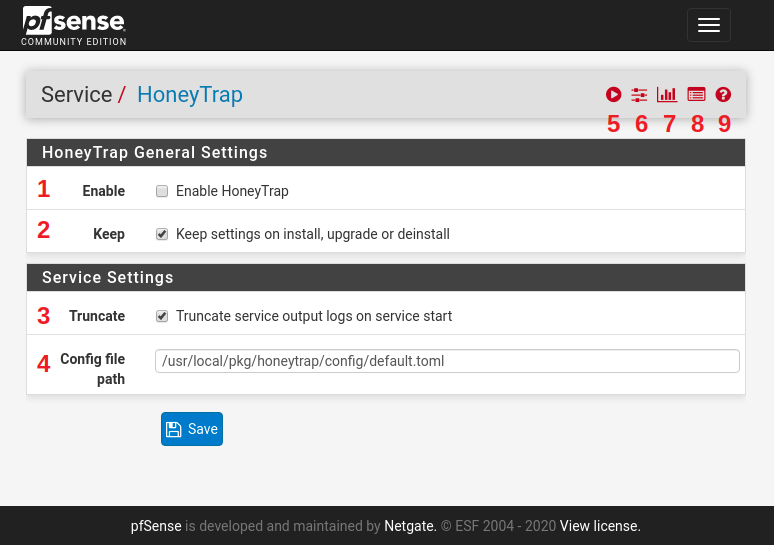
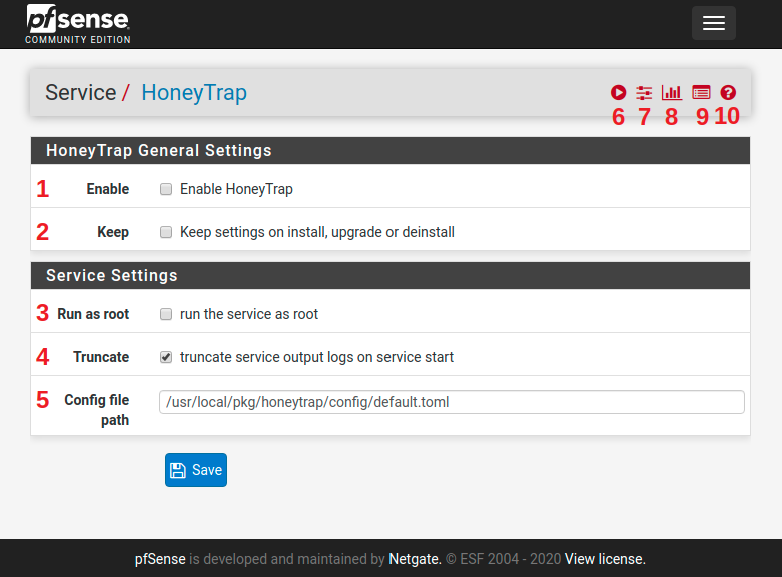
Update FreeBSD and pfSense manuals
Add stuff about the new option to run the service as root
Fix formatting, for some reason the rendered page was different
localy than on the web page.

diff --git a/content/manuals/honeytrap-pfsense.md b/content/manuals/honeytrap-pfsense.md
@@ -13,37 +13,56 @@ toc: true
 ---
 
 ## Requirements
+
 - A FreeBSD machine for building the package. Check [pfSense docs](https://docs.netgate.com/pfsense/en/latest/releases/versions-of-pfsense-and-freebsd.html) to find out which version of FreeBSD you need.
 - git must be installed on the FreeBSD machine
+- The ports collection must be present on the FreeBSD machine. If it isn't check [Ports collection on the FreeBSD guide](../honeytrap-freebsd/#ports-collection)
+
 ## Build and install package
-All of the following steps except the last one must be done on the FreeBSD machine.
-1. Clone the repository and copy the directory to the ports collection.
-   ```bash
-   git clone https://github.com/honeytrap/honeytrap-pfsense-plugin.git
-   cp -R honeytrap-pfsense-plugin/pfSense-pkg-HoneyTrap /usr/ports/security
-   ```
-2. Compile the packages
-   ```bash
-   make -C /usr/ports/security/honeytrap NO_DEPENDS=yes package
-   make -C /usr/ports/security/pfSense-pkg-HoneyTrap NO_DEPENDS=yes package
-   ```
-3. Copy the compiled packages to a pfSense machine
-   ```bash
-   scp /usr/ports/security/honeytrap/work/pkg/honeytrap-*.txz root@example:~
-   scp /usr/ports/security/pfSense-pkg-HoneyTrap/work/pkg/pfSense-pkg-HoneyTrap-*.txz root@example:~
-   ```
-4. On the pfSense machine install the packages.
-   ```bash
-   pkg add pfSense-pkg-HoneyTrap-*.txz
-   ```
+
+All of the following steps except the fourth must be done on the FreeBSD machine.
+
+### Step 1. Clone the repository and copy the directory to the ports collection.
+
+```bash
+git clone https://github.com/honeytrap/honeytrap-pfsense-plugin.git
+cp -R honeytrap-pfsense-plugin/pfSense-pkg-HoneyTrap /usr/ports/security
+```
+
+### Step 2. Compile the packages
+
+Setting `NO_DEPENDS` tells `make` not to install dependencies while building. Otherwise HoneyTrap would be installed on the FreeBSD machine as well.
+
+```bash
+make -C /usr/ports/security/honeytrap NO_DEPENDS=yes package
+make -C /usr/ports/security/pfSense-pkg-HoneyTrap NO_DEPENDS=yes package
+```
+
+### Step 3. Copy the compiled packages to a pfSense machine
+
+```bash
+scp /usr/ports/security/honeytrap/work/pkg/honeytrap-*.txz root@example:~
+scp /usr/ports/security/pfSense-pkg-HoneyTrap/work/pkg/pfSense-pkg-HoneyTrap-*.txz root@example:~
+```
+### Step 4. On the pfSense machine install the packages.
+
+HoneyTrap will be installed along with the pfSense package if both are in the same location.
+
+```bash
+pkg add pfSense-pkg-HoneyTrap-*.txz
+```
+
 ## Configuration
+
 ![](/manuals/images/pfsense-config.png)
+
 1. Enable the HoneyTrap service. When checked the service is started automatically.
 2. Keep HoneyTrap configuration and related files when the package is installed, updated or deinstalled. When unchecked only the log files are kept.
-3. When enabled all lines are removed from the service log file before is starts.
-4. The path to the HoneyTrap config file. The file must be present on the system.
-5. Button to start HoneyTrap manually. If HoneyTrap is already running the button is replaced with a button to restart and one to stop it.
-6. Configuration page for the plugin.
-7. An overview of service statuses.
-8. Page to view the output of the HoneyTrap service
-9. Link to pfSense documentation.
+3. Check this when you want to run the service as root. You should only do this when necessary, for example when you want to use ports in the range 1-1024.
+4. When enabled all lines are removed from the service log file before is starts.
+5. The path to the HoneyTrap config file. The file must be present on the system.
+6. Button to start HoneyTrap manually. If HoneyTrap is already running the button is replaced with a button to restart and one to stop it.
+7. Configuration page for the plugin.
+8. An overview of service statuses.
+9. Page to view the output of the HoneyTrap service
+10. Link to pfSense documentation.

diff --git a/content/manuals/honeytrap-freebsd.md b/content/manuals/honeytrap-freebsd.md
@@ -13,19 +13,26 @@ toc: true
 ---
 
 ## Install
-There are two methods to install the HoneyTrap port, via a package manager or via the ports collection. Using the package manager is only possible if the port is present in the ports repository of the FreeBSD version that'll be used.  
+
+There are two methods to install the HoneyTrap port, via a package manager or via the ports collection. Using the package manager is only possible if the port is present in the ports repository of the FreeBSD version that'll be used.
+
 If you want to use the package manager you'll have to verify if the port is present in the ports repository of your FreeBSD version. This can be done by:
+
 1. go to the ports [FreshPorts page](https://www.freshports.org/security/honeytrap/)
 2. look up your FreeBSD version in the table under `Packages`
 3. If a version is listen under `latest` or `quarterly` a package is available for your FreeBSD version.
 
 ### Package
-The package can be installed by running `pkg install honeytrap`.  
+
+The package can be installed by running `pkg install honeytrap`.
+
 If you want to use the package from the `latest` branch of your ports repository a couple extra steps need to be taken.
+
 1. Copy the default repository config from `/etc/pkg/FreeBSD.config` to `/usr/local/etc/pkg/repos/FreeBSD-latest.conf`
 2. Open the copy, change the config name to `FreeBSD-latest` and change `quarterly` to `latest` in the URL.
 If done correctly the new config should look something like this:
-```
+
+```conf
 FreeBSD-latest: {
   url: "pkg+http://pkg.FreeBSD.org/${ABI}/latest",
   mirror_type: "srv",
@@ -34,45 +41,65 @@ FreeBSD-latest: {
   enabled: yes
 }
 ```
+
 The package can now be install by running:
-```shell
+
+```bash
 pkg install -r FreeBSD-latest honeytrap
 ```
 
 ### Ports collection
+
 If you installed the ports collection along with FreeBSD the HoneyTrap port can be installed by running:
-```shell
+
+```bash
 make -C /usr/ports/security/honeytrap/ install
 ```
+
 If you didn't install the ports collection you'll have to install it before installing the HoneyTrap port, this can be done by running:
-```shell
+
+```bash
 portsnap fetch extract
 ```
+
 If the HoneyTrap port is missing from your ports collection update it before installing the HoneyTrap port by running:
-```shell
+
+```bash
 portsnap fetch update
 ```
+
 ## Post install
+
 By default the ports service is configured to use the data directory `/usr/local/libdata/honeytrap/` and log directory `/var/log/honeytrap/`. If you want to use different directories create them and set the access rights so the honeytrap user can access them before starting HoneyTrap, for example:
-```shell
+
+```bash
 mkdir -p /tmp/honeytrap/log
 chown honeytrap:honeytrap /tmp/honeytrap/log
 ```
+
 ### Service configuration
+
 The service can be configured by adding one or more variables to `/etc/rc.conf` or `/etc/rc.conf.local`, the available variables are:
+
 ```
 honeytrap_enable (bool):  Set to NO by default.
                           Set it to YES to enable honeytrap.
+honeytrap_user (bool):    Set to YES by default.
+                          Set it to NO to run service root.
 honeytrap_datadir (path): Set to /usr/local/libdata/honeytrap
                           by default.
 honeytrap_config (path):  Set to /usr/local/etc/honeytrap.toml
                           by default.
 ```
+
 To enable auto starting the service run:
-```shell
+
+```bash
 echo honeytrap_enable="YES" >> /etc/rc.conf
 ```
+
 The service should now start together with the system, a manual start can be done by running:
-```shell
+
+```bash
 service honeytrap start
 ```
